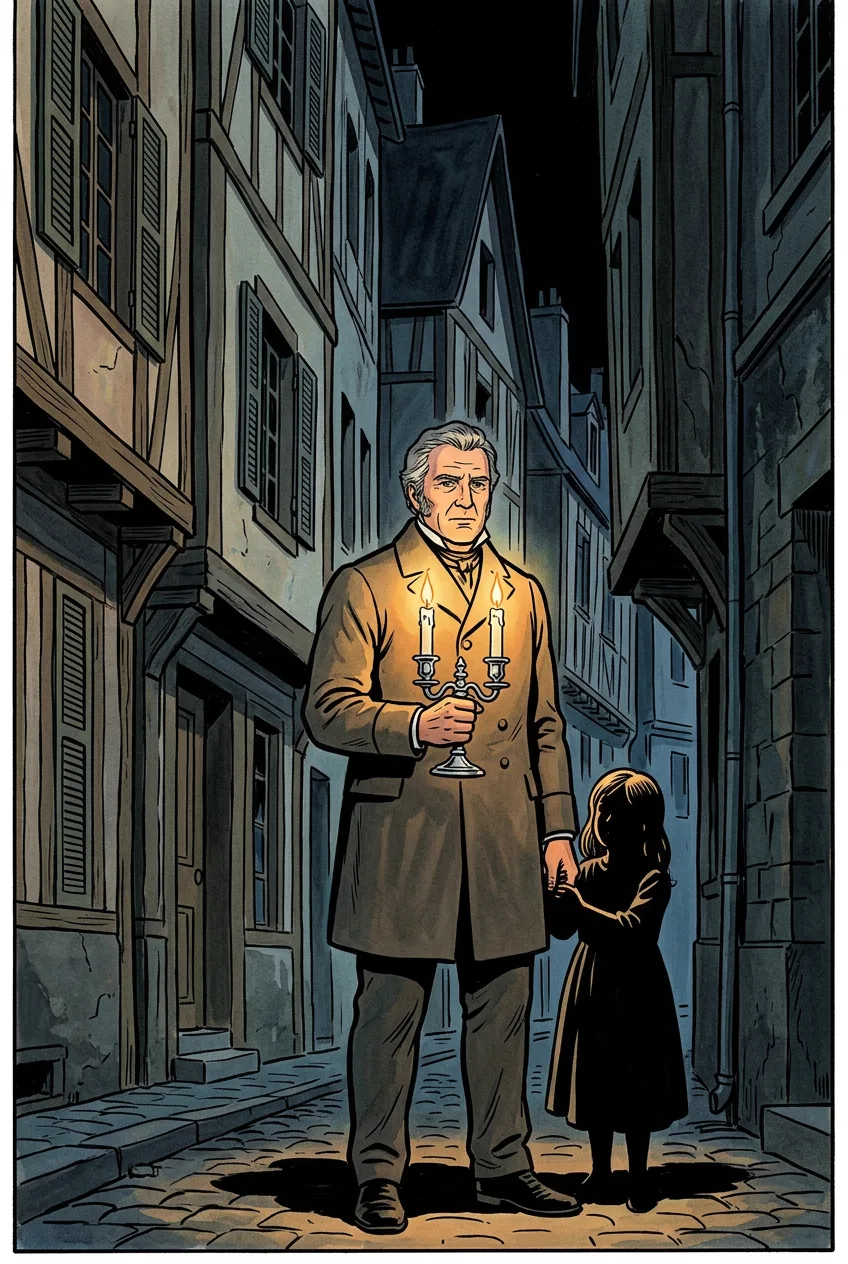
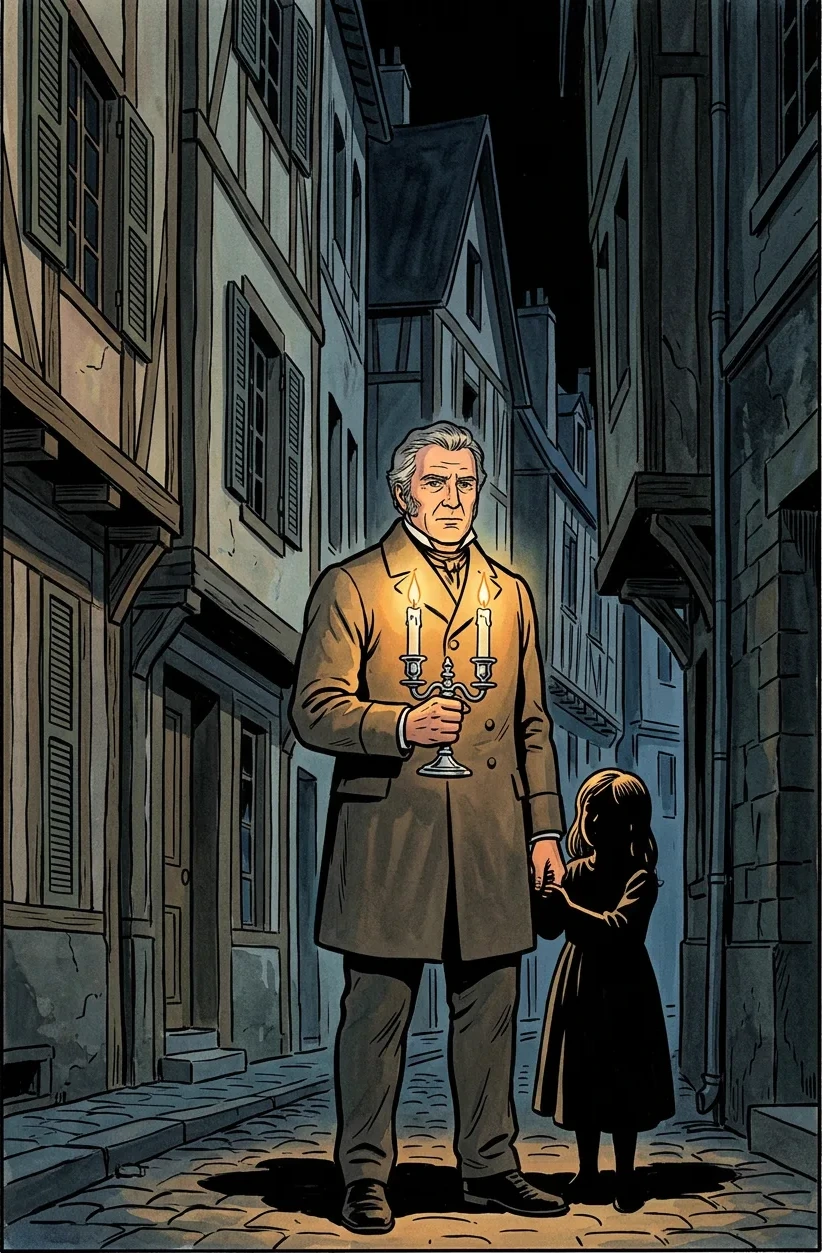
장발장 표지의 흰 테두리를 잘라냄 · 표지 주문에 못 박음
표지 그림칸은 object-fit: cover라 CSS가 여백을 만들지 않는다. 흰 테두리는
그림 파일 안에 들어 있었다. 왼쪽 13px, 오른쪽 13px, 아래 11px이었고
위는 하늘이 검어 없었다. 잘라내니 848x1264에서 822x1253이 되었다.

지금 있는 표지 셋 가운데 장발장만 그랬다. 셜록과 보물섬은 깨끗하다.

앞으로 들어올 표지에 같은 일이 없도록 42권 주문서의 표지 줄에
네 변 끝까지 닿게 그리라는 말을 붙이고, 머리말에도 한 줄 적었다.

본문 그림의 테두리는 일부러 넣은 것도 있어 건드리지 않았다.

diff --git a/learning/literacy-numeracy/story-books/world-novels/treasure-island/IMAGE-PROMPTS.md b/learning/literacy-numeracy/story-books/world-novels/treasure-island/IMAGE-PROMPTS.md
@@ -6,6 +6,8 @@
 (그림이 없어도 책은 정상적으로 열리고, 이모지 자리표시자가 대신 보입니다.)
 
 권장 크기: **가로 4 : 세로 3** 비율, PNG.
+그림이 칸을 꽉 채워야 하니 가장자리에 흰 여백이나 테두리를 두지 마세요. 그림이 네 변 끝까지 닿아야 합니다.
+
 **단 표지(`cover.webp`)만 예외 — 세로 2 : 3 비율입니다.** 표지 그림칸은 책을 펼쳤을 때 왼쪽 반쪽 전체를 채우는데,
 그 칸 자체가 가로로 넓은 4:3이 아니라 세로로 긴 2:3 모양입니다. 4:3 가로 그림을 넣으면 양옆이 절반 가까이 잘려 나갑니다.
 
@@ -64,7 +66,7 @@ sailcloth pinned together with brass buttons and twigs, wild hair and beard.
 
 | 파일명 | 장면 |
 |---|---|
-| `images/cover.webp` (세로 2:3 비율) | A tall portrait-format adventure novel cover: Jim Hawkins standing on a windswept clifftop at dusk holding a rolled sea chart, the sea and a distant tall ship behind him, an old sailor's sea chest at his feet, stormy sky, dramatic and inviting adventure-book cover composition. |
+| `images/cover.webp` (세로 2:3 비율) | A tall portrait-format adventure novel cover: Jim Hawkins standing on a windswept clifftop at dusk holding a rolled sea chart, the sea and a distant tall ship behind him, an old sailor's sea chest at his feet, stormy sky, dramatic and inviting adventure-book cover composition. The picture must bleed to all four edges: no white margin, no white border, no frame, no matting around the artwork. |
 | `images/end.webp` | A brass ship's compass and a folded old sea chart lying on weathered planking, warm lantern light, quiet closing mood. The chart is blank coastline and soundings only - absolutely NO lettering, NO place names, NO numbers, NO book titles, NO writing of any kind anywhere in the picture. No weapons. |
 
 ## 1장 · 벤보 여관의 손님

diff --git a/learning/literacy-numeracy/story-books/world-novels/sherlock-holmes/IMAGE-PROMPTS.md b/learning/literacy-numeracy/story-books/world-novels/sherlock-holmes/IMAGE-PROMPTS.md
@@ -6,6 +6,8 @@
 (그림이 없어도 책은 정상적으로 열리고, 이모지 자리표시자가 대신 보입니다.)
 
 권장 크기: **가로 4 : 세로 3** 비율, PNG.
+그림이 칸을 꽉 채워야 하니 가장자리에 흰 여백이나 테두리를 두지 마세요. 그림이 네 변 끝까지 닿아야 합니다.
+
 **단 표지(`cover.webp`)만 예외 — 세로 2 : 3 비율입니다.** 표지 그림칸은 책을 펼쳤을 때 왼쪽 반쪽 전체를 채우는데,
 그 칸 자체가 세로로 긴 2:3 모양입니다. 4:3 가로 그림을 넣으면 양옆이 절반 가까이 잘려 나갑니다.
 
@@ -50,7 +52,7 @@ side table, two armchairs by a coal fire, a bay window onto a foggy street.
 
 | 파일명 | 장면 |
 |---|---|
-| `images/cover.webp` (세로 2:3 비율) | A tall portrait-format cover: a very tall thin man in a long caped coat and deerstalker standing under a gas lamp in a foggy Victorian London street at night, holding up a magnifying glass, his long shadow thrown across wet cobbles, a sturdy moustached companion a step behind him. |
+| `images/cover.webp` (세로 2:3 비율) | A tall portrait-format cover: a very tall thin man in a long caped coat and deerstalker standing under a gas lamp in a foggy Victorian London street at night, holding up a magnifying glass, his long shadow thrown across wet cobbles, a sturdy moustached companion a step behind him. The picture must bleed to all four edges: no white margin, no white border, no frame, no matting around the artwork. |
 | `images/end.webp` | A quiet Baker Street sitting room at night seen from the doorway: an empty armchair by the dying fire, a violin and bow laid across it, a pipe on the mantel, one lamp still burning. |
 
 ## 1편 · 베이커가 221B

diff --git a/learning/literacy-numeracy/story-books/world-novels/jean-valjean/IMAGE-PROMPTS.md b/learning/literacy-numeracy/story-books/world-novels/jean-valjean/IMAGE-PROMPTS.md
@@ -6,6 +6,8 @@
 (그림이 없어도 책은 정상적으로 열리고, 이모지 자리표시자가 대신 보입니다.)
 
 권장 크기: **가로 4 : 세로 3** 비율, PNG.
+그림이 칸을 꽉 채워야 하니 가장자리에 흰 여백이나 테두리를 두지 마세요. 그림이 네 변 끝까지 닿아야 합니다.
+
 **단 표지(`cover.webp`)만 예외 — 세로 2 : 3 비율입니다.** 표지 그림칸은 책을 펼쳤을 때 왼쪽 반쪽 전체를 채우는데,
 그 칸 자체가 세로로 긴 2:3 모양입니다. 4:3 가로 그림을 넣으면 양옆이 절반 가까이 잘려 나갑니다.
 
@@ -57,7 +59,7 @@ Marius: a slim serious young man of twenty in a shabby black coat.
 
 | 파일명 | 장면 |
 |---|---|
-| `images/cover.webp` (세로 2:3 비율) | A tall portrait-format book cover: a powerfully built grey-haired man in a plain dark coat standing in a narrow 19th-century Paris street at night, holding a pair of silver candlesticks whose two flames are the only light, a small child's silhouette beside him, tall shuttered houses rising into darkness behind. |
+| `images/cover.webp` (세로 2:3 비율) | A tall portrait-format book cover: a powerfully built grey-haired man in a plain dark coat standing in a narrow 19th-century Paris street at night, holding a pair of silver candlesticks whose two flames are the only light, a small child's silhouette beside him, tall shuttered houses rising into darkness behind. The picture must bleed to all four edges: no white margin, no white border, no frame, no matting around the artwork. |
 | `images/end.webp` | Two silver candlesticks on a bare mantelpiece, the candles burnt low, warm quiet light, an empty chair in shadow beside them. |
 
 ## 1장 · 빵 한 조각

diff --git a/learning/literacy-numeracy/story-books/world-novels/little-lord/IMAGE-PROMPTS.md b/learning/literacy-numeracy/story-books/world-novels/little-lord/IMAGE-PROMPTS.md
@@ -6,6 +6,8 @@
 (그림이 없어도 책은 정상적으로 열리고, 이모지 자리표시자가 대신 보입니다.)
 
 권장 크기: **가로 4 : 세로 3** 비율, PNG.
+그림이 칸을 꽉 채워야 하니 가장자리에 흰 여백이나 테두리를 두지 마세요. 그림이 네 변 끝까지 닿아야 합니다.
+
 **단 표지(`cover.webp`)만 예외 — 세로 2 : 3 비율입니다.** 표지 그림칸은 책을 펼쳤을 때 왼쪽 반쪽 전체를 채우는데,
 그 칸 자체가 세로로 긴 2:3 모양입니다. 4:3 가로 그림을 넣으면 양옆이 절반 가까이 잘려 나갑니다.
 
@@ -54,7 +56,7 @@ Dougal: a huge deerhound that follows the Earl everywhere.
 
 | 파일명 | 장면 |
 |---|---|
-| `images/cover.webp` (세로 2:3 비율) | A tall portrait-format cover: a small golden-haired boy in a velvet suit standing beside a huge armchair holding the hand of a gaunt white-haired old man who is seated with a bandaged foot; a great hound at their feet, a firelit library rising into shadow behind them, tall windows above. |
+| `images/cover.webp` (세로 2:3 비율) | A tall portrait-format cover: a small golden-haired boy in a velvet suit standing beside a huge armchair holding the hand of a gaunt white-haired old man who is seated with a bandaged foot; a great hound at their feet, a firelit library rising into shadow behind them, tall windows above. The picture must bleed to all four edges: no white margin, no white border, no frame, no matting around the artwork. |
 | `images/end.webp` | A firelit library at night with two empty chairs drawn close together, a footstool between them, a large sleeping hound on the rug, one lamp still burning. |
 
 ## 1장 · 뉴욕의 골목

diff --git a/learning/literacy-numeracy/story-books/world-novels/huck-finn/IMAGE-PROMPTS.md b/learning/literacy-numeracy/story-books/world-novels/huck-finn/IMAGE-PROMPTS.md
@@ -6,6 +6,8 @@
 (그림이 없어도 책은 정상적으로 열리고, 이모지 자리표시자가 대신 보입니다.)
 
 권장 크기: **가로 4 : 세로 3** 비율, PNG.
+그림이 칸을 꽉 채워야 하니 가장자리에 흰 여백이나 테두리를 두지 마세요. 그림이 네 변 끝까지 닿아야 합니다.
+
 **단 표지(`cover.webp`)만 예외 — 세로 2 : 3 비율입니다.**
 
 ## 공통 스타일 지시문 (모든 프롬프트 앞에 붙여서 쓰세요)
@@ -57,7 +59,7 @@ Mary Jane Wilks: a red-haired young woman of nineteen with an open kind face.
 
 | 파일명 | 장면 |
 |---|---|
-| `images/cover.webp` (세로 2:3 비율) | A tall portrait-format cover: a timber raft on the vast Mississippi at night seen from slightly above and behind — a barefoot boy lying on his back looking up at a sky full of stars, and a dignified Black man seated at the steering oar keeping watch over him; the river stretching away pale under the moon, dark wooded banks on both sides. |
+| `images/cover.webp` (세로 2:3 비율) | A tall portrait-format cover: a timber raft on the vast Mississippi at night seen from slightly above and behind — a barefoot boy lying on his back looking up at a sky full of stars, and a dignified Black man seated at the steering oar keeping watch over him; the river stretching away pale under the moon, dark wooded banks on both sides. The picture must bleed to all four edges: no white margin, no white border, no frame, no matting around the artwork. |
 | `images/end.webp` | An empty raft drifting at dawn against a wide river and a low sun, a straw hat left on the boards, a road leading west from the far bank. |
 
 ## 1장 · 나는 헉이라고 한다

diff --git a/learning/literacy-numeracy/story-books/world-novels/anne-green-gables/IMAGE-PROMPTS.md b/learning/literacy-numeracy/story-books/world-novels/anne-green-gables/IMAGE-PROMPTS.md
@@ -6,6 +6,8 @@
 (그림이 없어도 책은 정상적으로 열리고, 이모지 자리표시자가 대신 보입니다.)
 
 권장 크기: **가로 4 : 세로 3** 비율, PNG.
+그림이 칸을 꽉 채워야 하니 가장자리에 흰 여백이나 테두리를 두지 마세요. 그림이 네 변 끝까지 닿아야 합니다.
+
 **단 표지(`cover.webp`)만 예외 — 세로 2 : 3 비율입니다.** 표지 그림칸은 책을 펼쳤을 때 왼쪽 반쪽 전체를 채우는데,
 그 칸 자체가 세로로 긴 2:3 모양입니다. 4:3 가로 그림을 넣으면 양옆이 절반 가까이 잘려 나갑니다.
 
@@ -54,7 +56,7 @@ Mrs Rachel Lynde: a stout busy woman always with knitting in her hands.
 
 | 파일명 | 장면 |
 |---|---|
-| `images/cover.webp` (세로 2:3 비율) | A tall portrait-format cover: a thin red-haired freckled girl standing on a red dirt road at sunset with an old carpet bag at her feet, arms flung wide as she looks up at an arch of white blossoming trees above her; a white farmhouse with a green roof small in the distance below. |
+| `images/cover.webp` (세로 2:3 비율) | A tall portrait-format cover: a thin red-haired freckled girl standing on a red dirt road at sunset with an old carpet bag at her feet, arms flung wide as she looks up at an arch of white blossoming trees above her; a white farmhouse with a green roof small in the distance below. The picture must bleed to all four edges: no white margin, no white border, no frame, no matting around the artwork. |
 | `images/end.webp` | A lamplit window of a green-roofed farmhouse seen from the yard at dusk, an apple tree beside it, a road curving away into the hills. |
 
 ## 1장 · 역에 서 있던 아이

diff --git a/learning/literacy-numeracy/story-books/world-novels/little-women/IMAGE-PROMPTS.md b/learning/literacy-numeracy/story-books/world-novels/little-women/IMAGE-PROMPTS.md
@@ -6,6 +6,8 @@
 (그림이 없어도 책은 정상적으로 열리고, 이모지 자리표시자가 대신 보입니다.)
 
 권장 크기: **가로 4 : 세로 3** 비율, PNG.
+그림이 칸을 꽉 채워야 하니 가장자리에 흰 여백이나 테두리를 두지 마세요. 그림이 네 변 끝까지 닿아야 합니다.
+
 **단 표지(`cover.webp`)만 예외 — 세로 2 : 3 비율입니다.** 표지 그림칸은 책을 펼쳤을 때 왼쪽 반쪽 전체를 채우는데,
 그 칸 자체가 세로로 긴 2:3 모양입니다. 4:3 가로 그림을 넣으면 양옆이 절반 가까이 잘려 나갑니다.
 
@@ -57,7 +59,7 @@ hands, kind eyes, always with books.
 
 | 파일명 | 장면 |
 |---|---|
-| `images/cover.webp` (세로 2:3 비율) | A tall portrait-format cover: four sisters gathered close around a hearth on a winter evening, one sprawled on the rug, one at the piano, one sewing, one sketching, their mother standing behind them with a letter in her hand, firelight on all their faces, snow at the dark window above. |
+| `images/cover.webp` (세로 2:3 비율) | A tall portrait-format cover: four sisters gathered close around a hearth on a winter evening, one sprawled on the rug, one at the piano, one sewing, one sketching, their mother standing behind them with a letter in her hand, firelight on all their faces, snow at the dark window above. The picture must bleed to all four edges: no white margin, no white border, no frame, no matting around the artwork. |
 | `images/end.webp` | An old apple tree in a wide yard at the end of an October afternoon, a long table beneath it with the plates cleared, empty chairs, low golden light. |
 
 ## 1장 · 선물 없는 성탄절

diff --git a/learning/literacy-numeracy/story-books/world-novels/little-princess/IMAGE-PROMPTS.md b/learning/literacy-numeracy/story-books/world-novels/little-princess/IMAGE-PROMPTS.md
@@ -6,6 +6,8 @@
 (그림이 없어도 책은 정상적으로 열리고, 이모지 자리표시자가 대신 보입니다.)
 
 권장 크기: **가로 4 : 세로 3** 비율, PNG.
+그림이 칸을 꽉 채워야 하니 가장자리에 흰 여백이나 테두리를 두지 마세요. 그림이 네 변 끝까지 닿아야 합니다.
+
 **단 표지(`cover.webp`)만 예외 — 세로 2 : 3 비율입니다.** 표지 그림칸은 책을 펼쳤을 때 왼쪽 반쪽 전체를 채우는데,
 그 칸 자체가 세로로 긴 2:3 모양입니다. 4:3 가로 그림을 넣으면 양옆이 절반 가까이 잘려 나갑니다.
 
@@ -59,7 +61,7 @@ Mr Carrisford: a gaunt, ill gentleman wrapped in shawls in a deep armchair.
 
 | 파일명 | 장면 |
 |---|---|
-| `images/cover.webp` (세로 2:3 비율) | A tall portrait-format cover: a thin girl in a shabby black dress standing very straight at the top of a snowy London street at dusk, chin lifted, a large doll under one arm; behind and above her the attic window of a tall dark house with one small light in it, snow falling. |
+| `images/cover.webp` (세로 2:3 비율) | A tall portrait-format cover: a thin girl in a shabby black dress standing very straight at the top of a snowy London street at dusk, chin lifted, a large doll under one arm; behind and above her the attic window of a tall dark house with one small light in it, snow falling. The picture must bleed to all four edges: no white margin, no white border, no frame, no matting around the artwork. |
 | `images/end.webp` | An empty attic room seen from the doorway, swept clean, a small window with light coming through, one chair by a cold grate. |
 
 ## 1장 · 마차에서 내린 아이

diff --git a/learning/literacy-numeracy/story-books/world-novels/pompeii/IMAGE-PROMPTS.md b/learning/literacy-numeracy/story-books/world-novels/pompeii/IMAGE-PROMPTS.md
@@ -6,6 +6,8 @@
 (그림이 없어도 책은 정상적으로 열리고, 이모지 자리표시자가 대신 보입니다.)
 
 권장 크기: **가로 4 : 세로 3** 비율, PNG.
+그림이 칸을 꽉 채워야 하니 가장자리에 흰 여백이나 테두리를 두지 마세요. 그림이 네 변 끝까지 닿아야 합니다.
+
 **단 표지(`cover.webp`)만 예외 — 세로 2 : 3 비율입니다.**
 
 ## 공통 스타일 지시문 (모든 프롬프트 앞에 붙여서 쓰세요)
@@ -64,7 +66,7 @@ Olinthus: a plain-dressed man of about forty, calm.
 
 | 파일명 | 장면 |
 |---|---|
-| `images/cover.webp` (세로 2:3 비율) | A tall portrait-format cover: an ordinary Pompeii street at midday — stepping stones, cart ruts, painted walls, an awning, people shopping — and filling the whole upper half of the picture behind the rooftops, Vesuvius with a thin thread of smoke just starting from its summit that nobody in the street has noticed. |
+| `images/cover.webp` (세로 2:3 비율) | A tall portrait-format cover: an ordinary Pompeii street at midday — stepping stones, cart ruts, painted walls, an awning, people shopping — and filling the whole upper half of the picture behind the rooftops, Vesuvius with a thin thread of smoke just starting from its summit that nobody in the street has noticed. The picture must bleed to all four edges: no white margin, no white border, no frame, no matting around the artwork. |
 | `images/end.webp` | A modern excavation trench: a plaster cast of a figure lying in the ash on one side, and on the other a low wall with faded painted letters still on it, a rope barrier and daylight. |
 
 ## 1장 · 이 도시가 어떻게 남았나

diff --git a/learning/literacy-numeracy/story-books/world-novels/tom-sawyer/IMAGE-PROMPTS.md b/learning/literacy-numeracy/story-books/world-novels/tom-sawyer/IMAGE-PROMPTS.md
@@ -6,6 +6,8 @@
 (그림이 없어도 책은 정상적으로 열리고, 이모지 자리표시자가 대신 보입니다.)
 
 권장 크기: **가로 4 : 세로 3** 비율, PNG.
+그림이 칸을 꽉 채워야 하니 가장자리에 흰 여백이나 테두리를 두지 마세요. 그림이 네 변 끝까지 닿아야 합니다.
+
 **단 표지(`cover.webp`)만 예외 — 세로 2 : 3 비율입니다.** 표지 그림칸은 책을 펼쳤을 때 왼쪽 반쪽 전체를 채우는데,
 그 칸 자체가 세로로 긴 2:3 모양입니다. 4:3 가로 그림을 넣으면 양옆이 절반 가까이 잘려 나갑니다.
 
@@ -53,7 +55,7 @@ Draw him as a man, not a monster — the fear comes from the situation.
 
 | 파일명 | 장면 |
 |---|---|
-| `images/cover.webp` (세로 2:3 비율) | A tall portrait-format cover: a barefoot boy in a straw hat sitting on top of a long whitewashed fence with a dripping brush in one hand, grinning down at the viewer; behind and below him the fence runs away toward a small river town and a steamboat on a wide brown river, tall summer sky. |
+| `images/cover.webp` (세로 2:3 비율) | A tall portrait-format cover: a barefoot boy in a straw hat sitting on top of a long whitewashed fence with a dripping brush in one hand, grinning down at the viewer; behind and below him the fence runs away toward a small river town and a steamboat on a wide brown river, tall summer sky. The picture must bleed to all four edges: no white margin, no white border, no frame, no matting around the artwork. |
 | `images/end.webp` | An empty raft tied at a riverbank at sunset, a straw hat and a fishing pole lying on it, the wide river going gold. |
 
 ## 1장 · 톰!

diff --git a/learning/literacy-numeracy/story-books/world-novels/samguk/IMAGE-PROMPTS.md b/learning/literacy-numeracy/story-books/world-novels/samguk/IMAGE-PROMPTS.md
@@ -6,6 +6,8 @@
 (그림이 없어도 책은 정상적으로 열리고, 이모지 자리표시자가 대신 보입니다.)
 
 권장 크기: **가로 4 : 세로 3** 비율, PNG.
+그림이 칸을 꽉 채워야 하니 가장자리에 흰 여백이나 테두리를 두지 마세요. 그림이 네 변 끝까지 닿아야 합니다.
+
 **단 표지(`cover.webp`)만 예외 — 세로 2 : 3 비율입니다.**
 
 ## 공통 스타일 지시문 (모든 프롬프트 앞에 붙여서 쓰세요)
@@ -70,7 +72,7 @@ Sima Yi: a patient, watchful older general who never looks in a hurry.
 
 | 파일명 | 장면 |
 |---|---|
-| `images/cover.webp` (세로 2:3 비율) | A tall portrait-format cover: three men standing together in a blossoming peach orchard at dawn, seen from slightly below — one tall and long-bearded, one huge and broad, one plain-looking in the middle; behind them, painted small and pale like a distant memory, a burning fleet on a wide river and a mountain pass full of soldiers. |
+| `images/cover.webp` (세로 2:3 비율) | A tall portrait-format cover: three men standing together in a blossoming peach orchard at dawn, seen from slightly below — one tall and long-bearded, one huge and broad, one plain-looking in the middle; behind them, painted small and pale like a distant memory, a burning fleet on a wide river and a mountain pass full of soldiers. The picture must bleed to all four edges: no white margin, no white border, no frame, no matting around the artwork. |
 | `images/end.webp` | A wide river at evening with a single empty war junk drifting, and on the far bank the earthworks of an abandoned camp overgrown with grass. |
 
 ## 1장 · 무너지는 나라

diff --git a/learning/literacy-numeracy/story-books/world-novels/seoyu/IMAGE-PROMPTS.md b/learning/literacy-numeracy/story-books/world-novels/seoyu/IMAGE-PROMPTS.md
@@ -6,6 +6,8 @@
 (그림이 없어도 책은 정상적으로 열리고, 이모지 자리표시자가 대신 보입니다.)
 
 권장 크기: **가로 4 : 세로 3** 비율, PNG.
+그림이 칸을 꽉 채워야 하니 가장자리에 흰 여백이나 테두리를 두지 마세요. 그림이 네 변 끝까지 닿아야 합니다.
+
 **단 표지(`cover.webp`)만 예외 — 세로 2 : 3 비율입니다.**
 
 ## 공통 스타일 지시문 (모든 프롬프트 앞에 붙여서 쓰세요)
@@ -63,7 +65,7 @@ The Jade Emperor: an elderly ruler on a jade throne who never looks confident.
 
 | 파일명 | 장면 |
 |---|---|
-| `images/cover.webp` (세로 2:3 비율) | A tall portrait-format cover: four travellers and a white horse crossing a vast desert dune at sunset, tiny against the sky — a monk on horseback, a monkey striding ahead with a staff on his shoulder, a pig-headed man trudging, and a broad man behind carrying all the luggage; far above them in the clouds, faint, a giant open hand. |
+| `images/cover.webp` (세로 2:3 비율) | A tall portrait-format cover: four travellers and a white horse crossing a vast desert dune at sunset, tiny against the sky — a monk on horseback, a monkey striding ahead with a staff on his shoulder, a pig-headed man trudging, and a broad man behind carrying all the luggage; far above them in the clouds, faint, a giant open hand. The picture must bleed to all four edges: no white margin, no white border, no frame, no matting around the artwork. |
 | `images/end.webp` | A monkey's hand raised to his own forehead, and nothing there — no band, just fur; behind him a sunrise over mountains. |
 
 ## 1장 · 돌에서 난 원숭이
